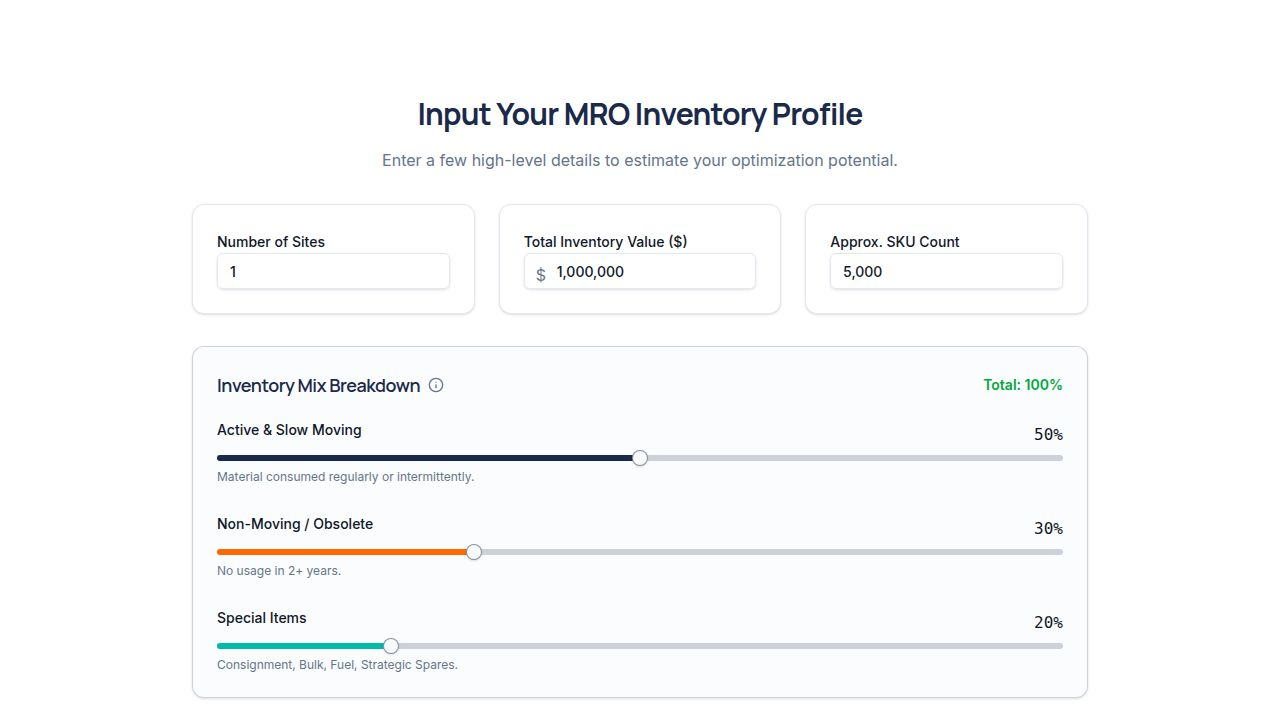
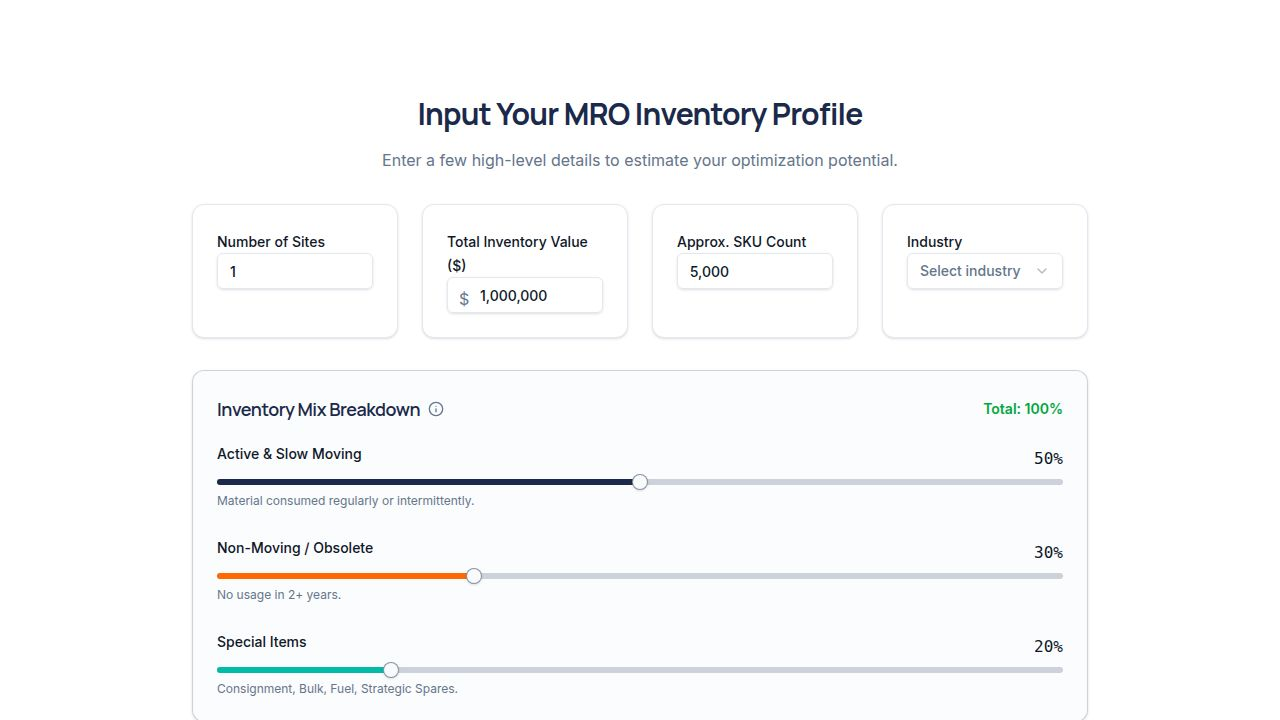
Improve the appearance of the industry selection on the input form
Update the styling of the industry select trigger to match the label size.

Replit-Commit-Author: Agent
Replit-Commit-Session-Id: 53460933-c99f-407e-b4b2-4acf8d67a946
Replit-Commit-Checkpoint-Type: full_checkpoint
Replit-Commit-Event-Id: a4ea0ab9-ee24-41d9-b16d-df7c381c7677
Replit-Commit-Screenshot-Url: https://storage.googleapis.com/screenshot-production-us-central1/d8290253-7722-459b-ab84-131e83c139fe/53460933-c99f-407e-b4b2-4acf8d67a946/rYifCAY
Replit-Helium-Checkpoint-Created: true

Changed region(s): [[0.1562, 0.5194, 0.8438, 0.9778], [0.3438, 0.3056, 0.625, 0.4278], [0.6562, 0.3056, 0.8125, 0.3972]]

diff --git a/client/src/components/calculator/InputStep.tsx b/client/src/components/calculator/InputStep.tsx
@@ -144,9 +144,9 @@ export function InputStep({ onComplete, defaultValues }: InputStepProps) {
             <Card>
               <CardContent className="pt-6">
                 <div className="space-y-2">
-                  <label className="text-sm font-medium leading-none">Industry</label>
+                  <label className="text-sm font-medium leading-none peer-disabled:cursor-not-allowed peer-disabled:opacity-70">Industry</label>
                   <Select onValueChange={setIndustry} value={industry}>
-                    <SelectTrigger data-testid="select-industry" className="text-lg font-medium">
+                    <SelectTrigger data-testid="select-industry" className="text-lg font-medium [&>span]:text-sm">
                       <SelectValue placeholder="Select industry" />
                     </SelectTrigger>
                     <SelectContent>
